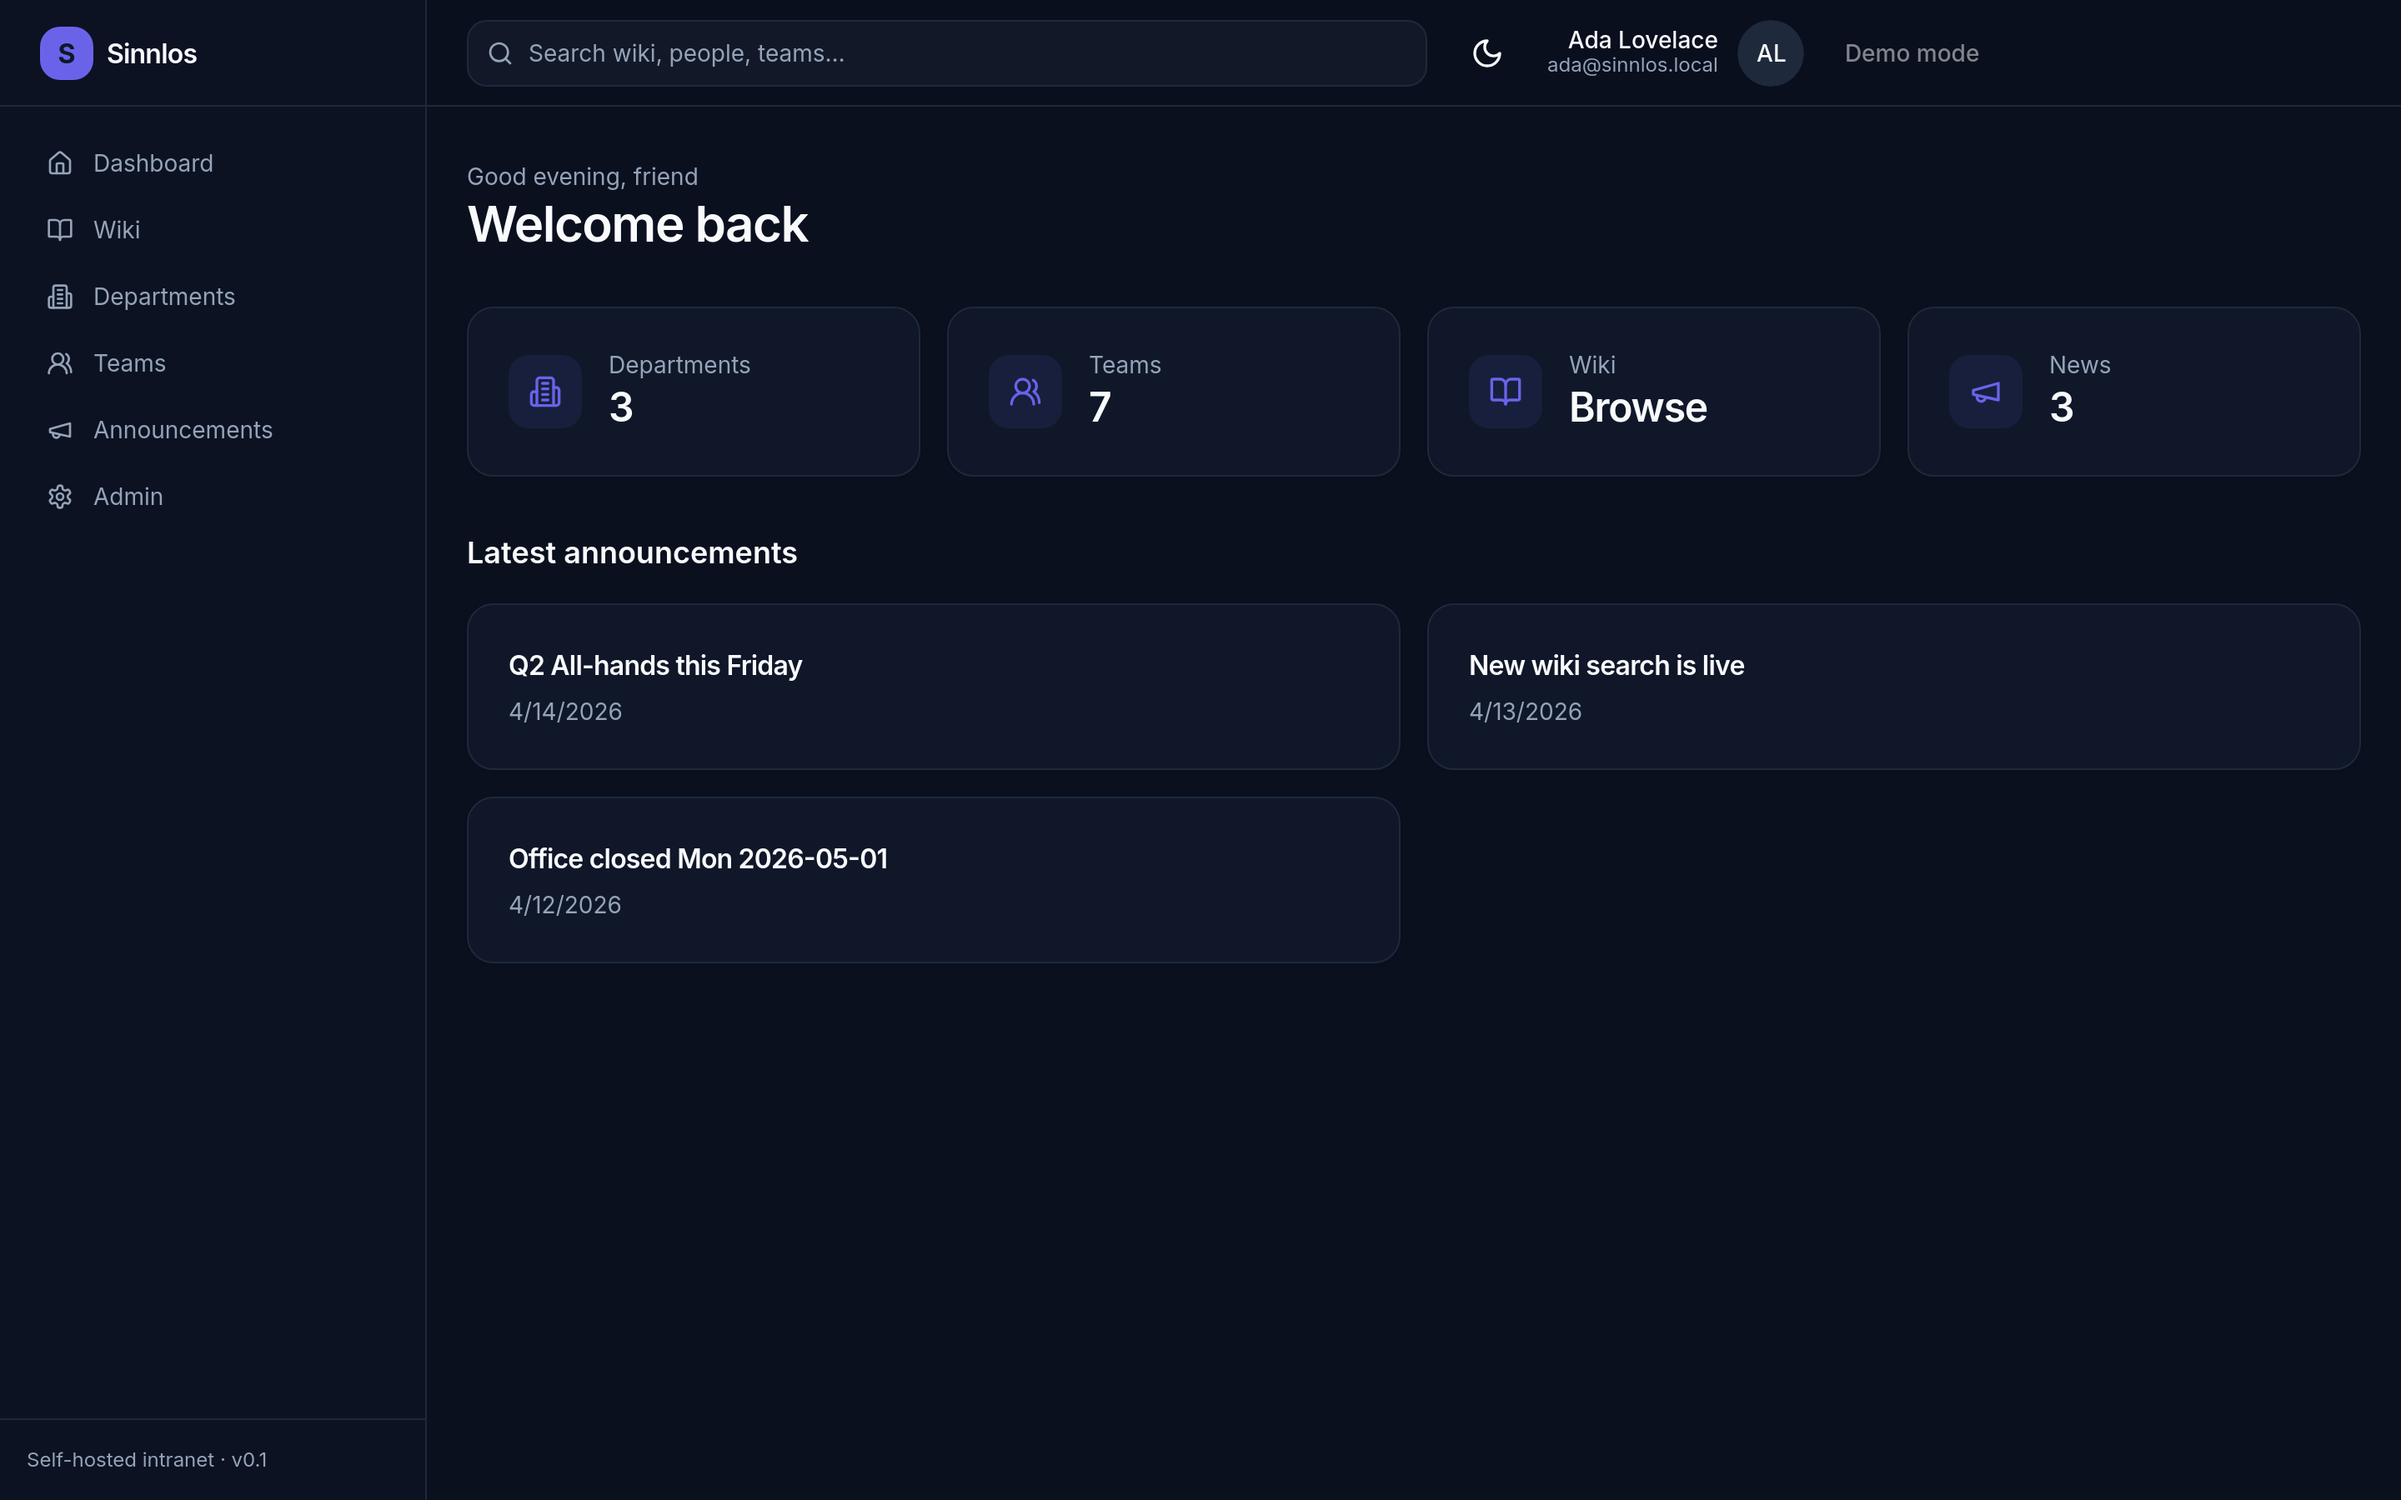
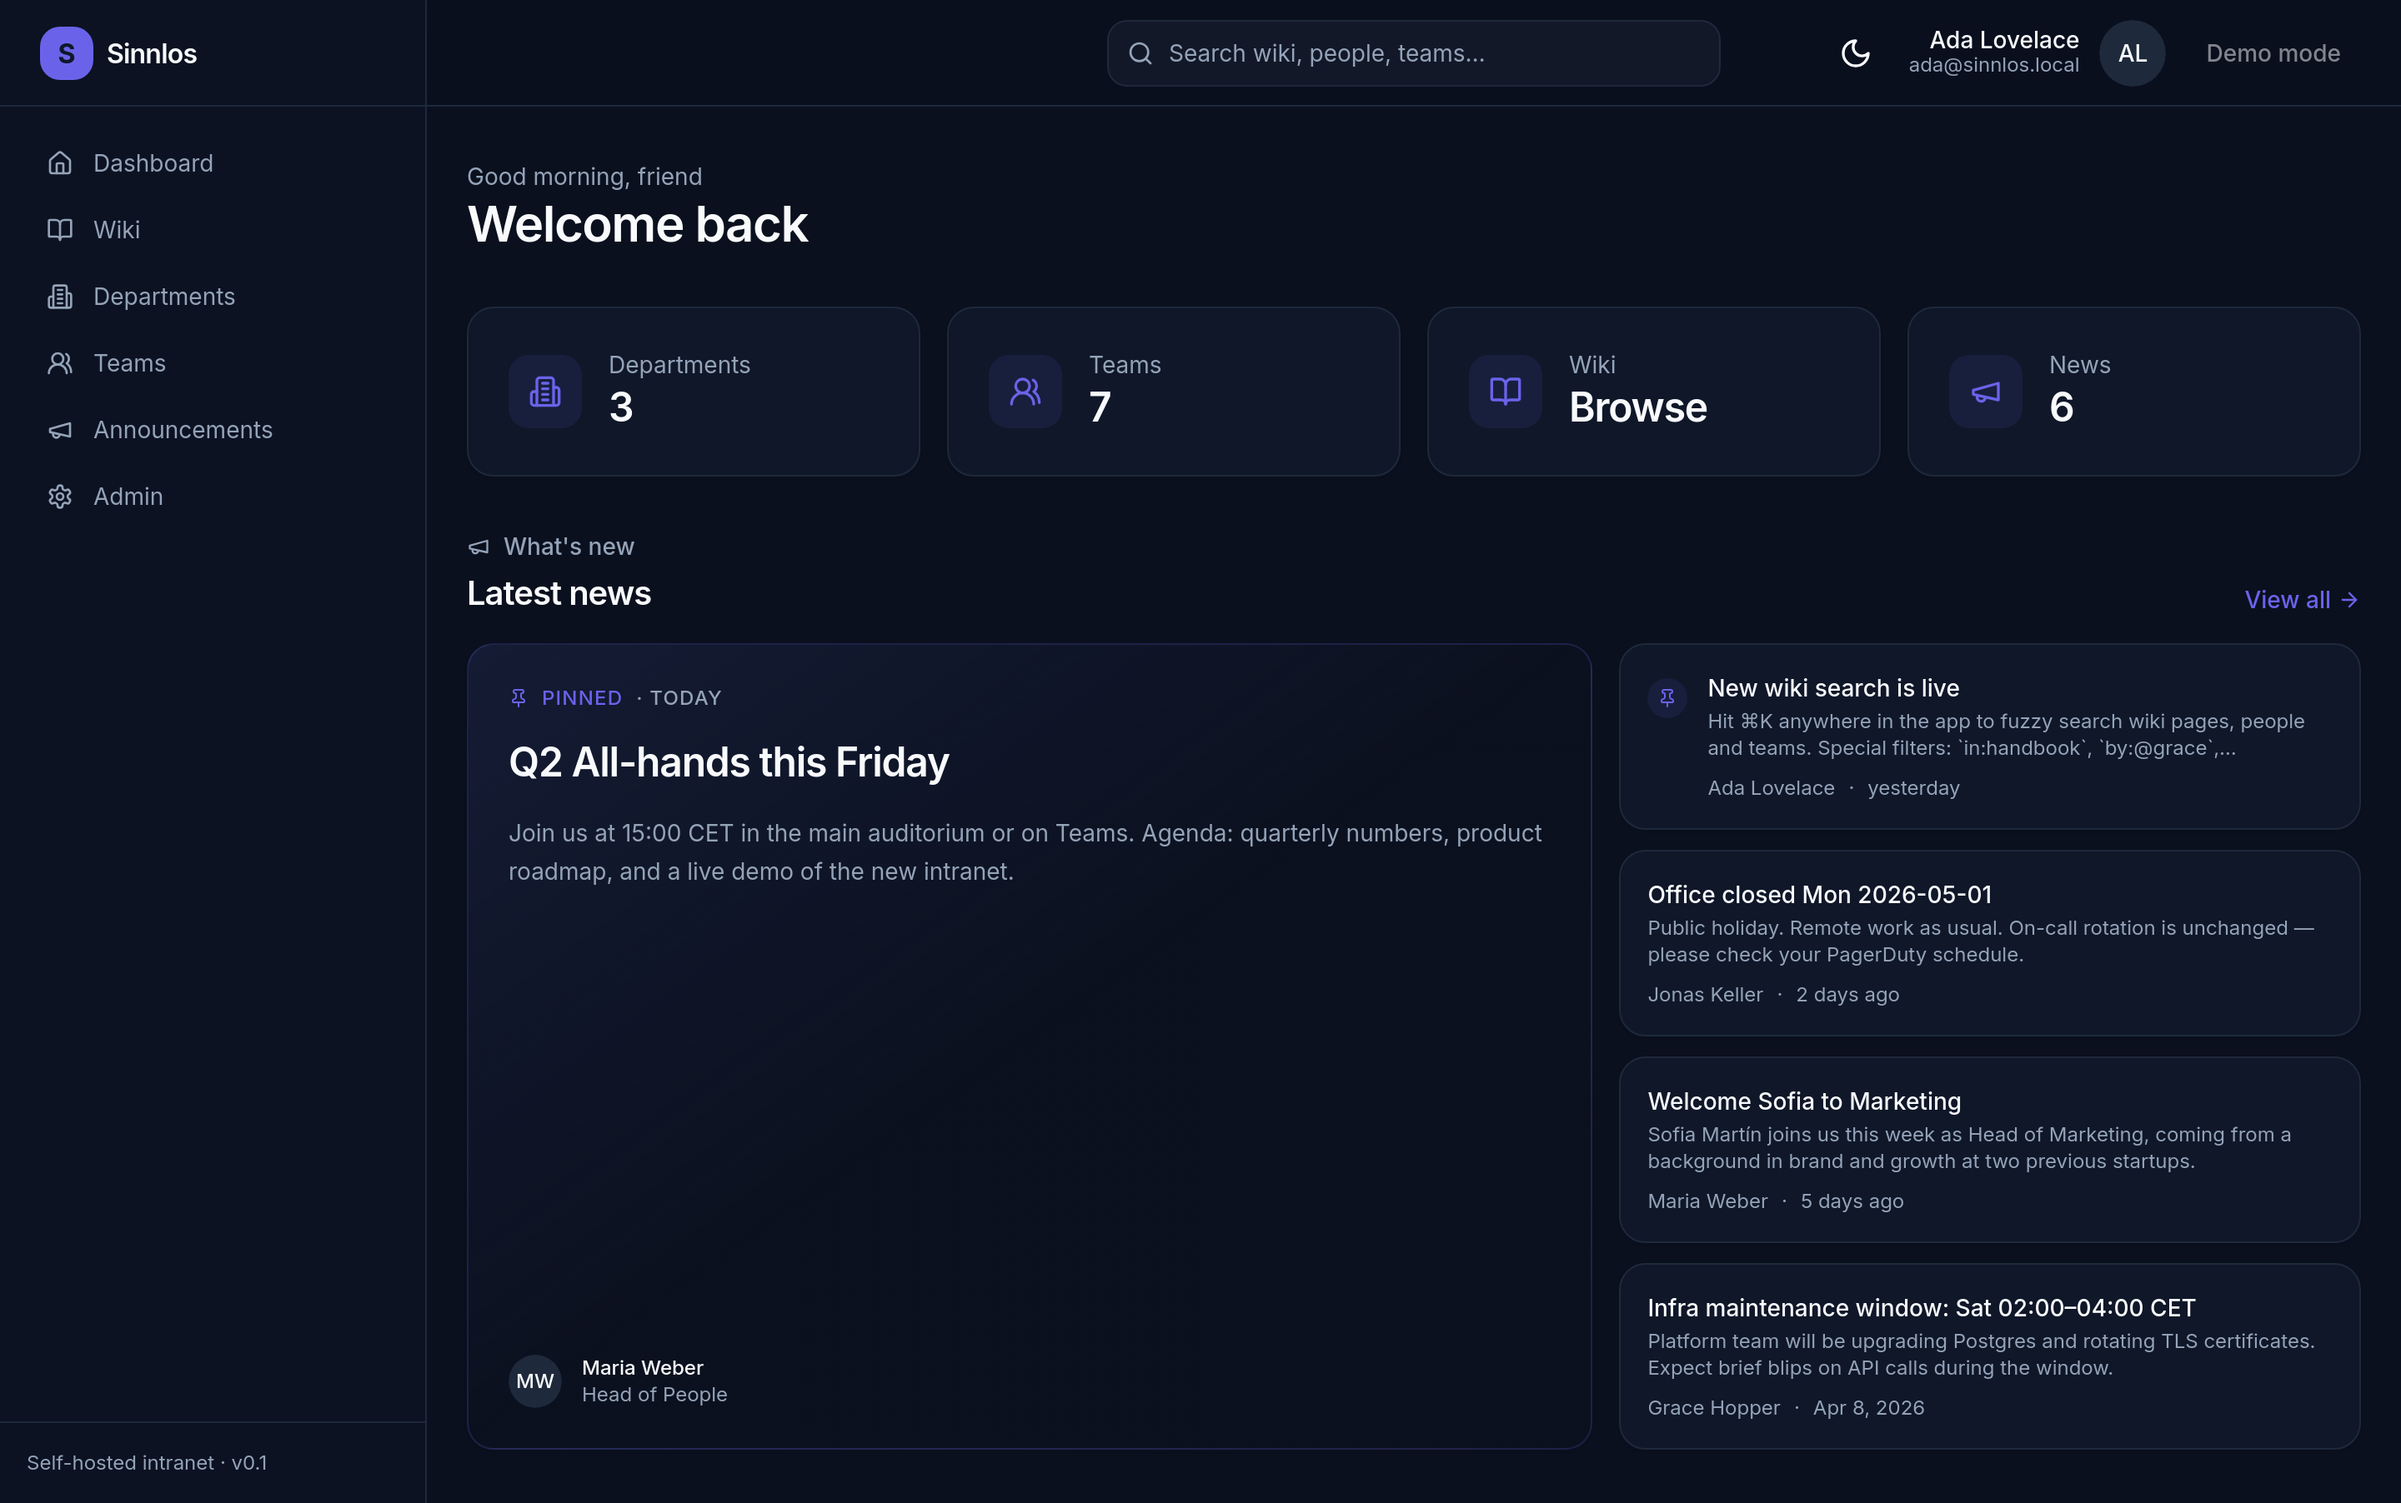
Add LatestNews component to dashboard
The dashboard already had a "Latest announcements" section but it only
rendered title + date in four identical small cards. Replace it with a
dedicated LatestNews component that matches the rest of the design
system:

- Featured pinned announcement on the left (lg:col-span-3) as a hero
  card with primary-tinted gradient, pin badge, body excerpt, author
  avatar and job title.
- Compact list of up to 4 more items on the right (lg:col-span-2) with
  body preview, author and relative dates ("today", "yesterday",
  "N days ago").
- "View all" link to /announcements.
- Graceful empty state for fresh installs.

Refresh dashboard screenshots (light + dark) to show the new layout.

diff --git a/apps/web/src/components/dashboard/latest-news.tsx b/apps/web/src/components/dashboard/latest-news.tsx
@@ -1,0 +1,163 @@
+import Link from "next/link";
+import { ArrowRight, Megaphone, Pin } from "lucide-react";
+import { Avatar, AvatarFallback } from "@/components/ui/avatar";
+import { Card, CardContent } from "@/components/ui/card";
+import { initials } from "@/lib/utils";
+
+type Announcement = {
+  id: number;
+  title?: string;
+  body?: string;
+  pinned?: boolean;
+  createdAt?: string;
+  author?: { displayName?: string; username?: string; jobTitle?: string } | null;
+  attributes?: any;
+};
+
+function normalise(a: Announcement) {
+  const attrs = a.attributes ?? a;
+  const author = attrs.author?.data?.attributes ?? attrs.author ?? null;
+  return {
+    id: a.id,
+    title: attrs.title as string,
+    body: (attrs.body as string) ?? "",
+    pinned: Boolean(attrs.pinned),
+    createdAt: attrs.createdAt ? new Date(attrs.createdAt) : null,
+    authorName: author?.displayName ?? author?.username ?? "Unknown",
+    authorJob: author?.jobTitle ?? null,
+  };
+}
+
+function formatDate(d: Date | null) {
+  if (!d) return "";
+  return d.toLocaleDateString(undefined, {
+    year: "numeric",
+    month: "short",
+    day: "numeric",
+  });
+}
+
+function relative(d: Date | null) {
+  if (!d) return "";
+  const diff = Date.now() - d.getTime();
+  const day = 86400000;
+  if (diff < day) return "today";
+  if (diff < 2 * day) return "yesterday";
+  if (diff < 7 * day) return `${Math.floor(diff / day)} days ago`;
+  return formatDate(d);
+}
+
+export function LatestNews({ items }: { items: Announcement[] }) {
+  const normalised = items.map(normalise);
+  const featured = normalised.find((n) => n.pinned) ?? normalised[0];
+  const rest = normalised.filter((n) => n.id !== featured?.id).slice(0, 4);
+
+  return (
+    <section className="space-y-4">
+      <div className="flex items-end justify-between gap-4">
+        <div>
+          <div className="flex items-center gap-2 text-sm font-medium text-muted-foreground">
+            <Megaphone className="h-3.5 w-3.5" />
+            What&apos;s new
+          </div>
+          <h2 className="mt-1 text-xl font-semibold tracking-tight">Latest news</h2>
+        </div>
+        <Link
+          href="/announcements"
+          className="group inline-flex items-center gap-1 text-sm font-medium text-primary hover:underline"
+        >
+          View all
+          <ArrowRight className="h-3.5 w-3.5 transition group-hover:translate-x-0.5" />
+        </Link>
+      </div>
+
+      {normalised.length === 0 ? (
+        <Card>
+          <CardContent className="flex flex-col items-center justify-center gap-2 py-12 text-center">
+            <div className="flex h-10 w-10 items-center justify-center rounded-xl bg-primary/10 text-primary">
+              <Megaphone className="h-5 w-5" />
+            </div>
+            <p className="font-medium">No announcements yet</p>
+            <p className="max-w-sm text-sm text-muted-foreground">
+              Editors and admins can post company news from the Strapi admin panel.
+            </p>
+          </CardContent>
+        </Card>
+      ) : (
+        <div className="grid gap-4 lg:grid-cols-5">
+          {featured && (
+            <Link
+              href="/announcements"
+              className="block lg:col-span-3"
+            >
+              <Card className="group h-full overflow-hidden border-primary/20 bg-gradient-to-br from-primary/[0.06] via-background to-background transition hover:border-primary/40 hover:shadow-md">
+                <CardContent className="flex h-full flex-col gap-4 p-6">
+                  <div className="flex items-center gap-2 text-xs font-medium uppercase tracking-wider text-primary">
+                    {featured.pinned ? (
+                      <>
+                        <Pin className="h-3 w-3" /> Pinned
+                      </>
+                    ) : (
+                      <>
+                        <Megaphone className="h-3 w-3" /> Featured
+                      </>
+                    )}
+                    <span className="text-muted-foreground">· {relative(featured.createdAt)}</span>
+                  </div>
+                  <h3 className="text-2xl font-semibold leading-tight tracking-tight transition group-hover:text-primary">
+                    {featured.title}
+                  </h3>
+                  <p className="line-clamp-3 text-sm leading-relaxed text-muted-foreground">
+                    {featured.body}
+                  </p>
+                  <div className="mt-auto flex items-center gap-3 pt-2">
+                    <Avatar className="h-8 w-8">
+                      <AvatarFallback className="text-xs">
+                        {initials(featured.authorName)}
+                      </AvatarFallback>
+                    </Avatar>
+                    <div className="text-xs">
+                      <div className="font-medium">{featured.authorName}</div>
+                      {featured.authorJob && (
+                        <div className="text-muted-foreground">{featured.authorJob}</div>
+                      )}
+                    </div>
+                  </div>
+                </CardContent>
+              </Card>
+            </Link>
+          )}
+
+          <div className="flex flex-col gap-3 lg:col-span-2">
+            {rest.map((n) => (
+              <Link key={n.id} href="/announcements" className="block">
+                <Card className="group transition hover:border-primary/30 hover:shadow-sm">
+                  <CardContent className="flex items-start gap-3 p-4">
+                    {n.pinned && (
+                      <div className="mt-1 flex h-6 w-6 shrink-0 items-center justify-center rounded-md bg-primary/10 text-primary">
+                        <Pin className="h-3 w-3" />
+                      </div>
+                    )}
+                    <div className="min-w-0 flex-1">
+                      <div className="truncate text-sm font-medium transition group-hover:text-primary">
+                        {n.title}
+                      </div>
+                      <p className="mt-0.5 line-clamp-2 text-xs text-muted-foreground">
+                        {n.body}
+                      </p>
+                      <div className="mt-2 flex items-center gap-2 text-xs text-muted-foreground">
+                        <span>{n.authorName}</span>
+                        <span>·</span>
+                        <span>{relative(n.createdAt)}</span>
+                      </div>
+                    </div>
+                  </CardContent>
+                </Card>
+              </Link>
+            ))}
+          </div>
+        </div>
+      )}
+    </section>
+  );
+}

diff --git a/apps/web/src/app/(app)/page.tsx b/apps/web/src/app/(app)/page.tsx
@@ -2,7 +2,8 @@ import Link from "next/link";
 import { Building2, Megaphone, Users2, BookOpen } from "lucide-react";
 import { auth } from "@/auth";
 import { api } from "@/lib/strapi";
-import { Card, CardContent, CardDescription, CardHeader, CardTitle } from "@/components/ui/card";
+import { Card, CardContent } from "@/components/ui/card";
+import { LatestNews } from "@/components/dashboard/latest-news";
 
 export default async function DashboardPage() {
   const session = await auth();
@@ -33,28 +34,7 @@ export default async function DashboardPage() {
         <StatCard icon={<Megaphone className="h-5 w-5" />} label="News" value={announcements?.data.length ?? 0} href="/announcements" />
       </section>
 
-      <section>
-        <h2 className="mb-4 text-lg font-semibold">Latest announcements</h2>
-        {announcements && announcements.data.length > 0 ? (
-          <div className="grid gap-4 md:grid-cols-2">
-            {announcements.data.slice(0, 4).map((a: any) => (
-              <Card key={a.id}>
-                <CardHeader>
-                  <CardTitle className="text-base">{a.title ?? a.attributes?.title}</CardTitle>
-                  <CardDescription>
-                    {new Date(a.createdAt ?? a.attributes?.createdAt).toLocaleDateString()}
-                  </CardDescription>
-                </CardHeader>
-              </Card>
-            ))}
-          </div>
-        ) : (
-          <EmptyState
-            title="No announcements yet"
-            hint="Editors can post company news from the Strapi admin panel."
-          />
-        )}
-      </section>
+      <LatestNews items={(announcements?.data ?? []) as any[]} />
     </div>
   );
 }
@@ -84,17 +64,6 @@ function StatCard({
         </CardContent>
       </Card>
     </Link>
-  );
-}
-
-function EmptyState({ title, hint }: { title: string; hint: string }) {
-  return (
-    <Card>
-      <CardContent className="py-12 text-center">
-        <p className="font-medium">{title}</p>
-        <p className="mt-1 text-sm text-muted-foreground">{hint}</p>
-      </CardContent>
-    </Card>
   );
 }
 
